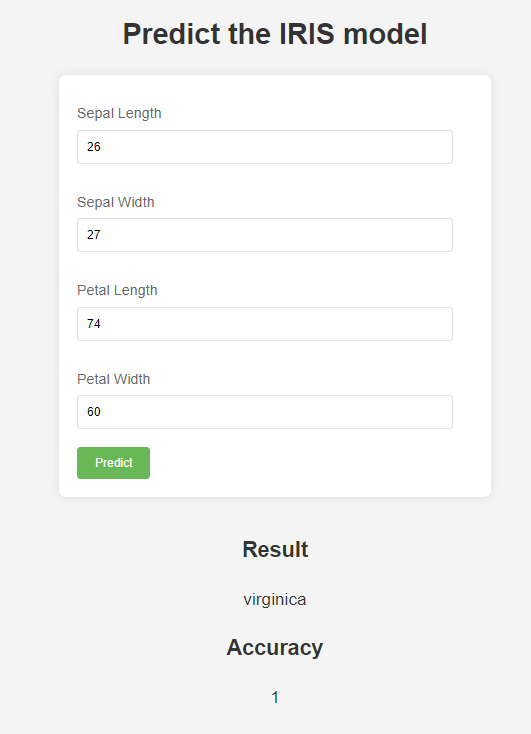
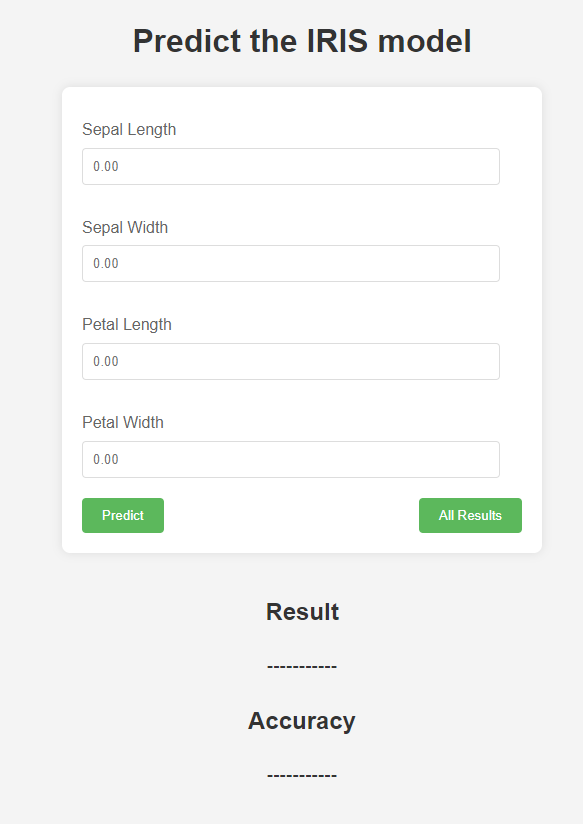
Update save data to mysql and show table in all_result page

diff --git a/src/templates/all_result.html b/src/templates/all_result.html
@@ -1,0 +1,165 @@
+<!DOCTYPE html>
+<html lang="en">
+
+<head>
+    <meta charset="UTF-8">
+    <meta name="viewport" content="width=device-width, initial-scale=1.0">
+    <title>All Results</title>
+    <style>
+         * {
+            margin: 0;
+            padding: 0;
+            box-sizing: border-box;
+        }
+
+        body {
+            font-family: Arial, sans-serif;
+            line-height: 1.6;
+            padding: 20px;
+            background-color: #f4f4f4;
+        }
+
+        .container {
+            display: flex;
+            justify-content: center;
+            align-items: center;
+            flex-direction: column;
+            margin-top: 20px;
+        }
+
+        h1, h2 {
+            color: #333;
+            margin-bottom: 20px;
+        }
+
+        form {
+            background-color: #fff;
+            padding: 20px;
+            border-radius: 8px;
+            box-shadow: 0 0 10px rgba(0, 0, 0, 0.1);
+            margin-bottom: 20px;
+            width: 30rem;
+        }
+
+        label {
+            margin: 10px 0 5px;
+            display: block;
+            color: #666;
+        }
+
+        input[type="number"] {
+            width: calc(100% - 22px);
+            padding: 10px;
+            margin-bottom: 20px;
+            border-radius: 4px;
+            border: 1px solid #ddd;
+        }
+
+        button {
+            background-color: #5cb85c;
+            color: #fff;
+            border: none;
+            padding: 10px 20px;
+            cursor: pointer;
+            border-radius: 4px;
+            transition: background-color 0.3s ease;
+        }
+
+        button:hover {
+            background-color: #4cae4c;
+        }
+
+        p {
+            color: #333;
+            font-size: 1.2rem;
+        }
+
+        table {
+            width: 100%;
+            border-collapse: collapse;
+            border-color: #ddd !important;
+        }
+
+        th, td {
+            padding: 12px 15px;
+            text-align: left;
+            border-bottom: 2px solid #ddd;
+        }
+
+        th {
+            background-color: #4CAF50;
+            color: white;
+            font-size: 16px;
+        }
+
+        tr:nth-child(even) {
+            background-color: #f2f2f2;
+        }
+
+        tr:hover {
+            background-color: #ddd;
+            cursor: pointer;
+        }
+
+        .table {
+            overflow-x: auto;
+            border-radius: 8px;
+            box-shadow: 0 4px 8px rgba(0, 0, 0, 0.1);
+        }
+     
+        .btn-back {
+            margin-top: 20px;
+            display: flex;
+            justify-content: flex-end;
+        }
+    </style>
+</head>
+
+<body>
+    <div class="container">
+        <h1>ALL Results</h1>
+        <div class="table">
+
+            <table border="1">
+                <thead>
+                    <tr>
+                        <th>Id</th>
+                        <th>sepal_length</th>
+                        <th>sepal_width</th>
+                        <th>petal_length</th>
+                        <th>petal_width</th>
+                        <th>prediction</th>
+                        <th>accuracy</th>
+                    </tr>
+                </thead>
+                <tbody>
+                    {% for result in results %}
+                    <tr>
+                        <td>{{ result.id }}</td>
+                        <td>{{ result.sepal_length }}</td>
+                        <td>{{ result.sepal_width }}</td>
+                        <td>{{ result.petal_length }}</td>
+                        <td>{{ result.petal_width }}</td>
+                        <td>{{ result.prediction }}</td>
+                        <td>{{ result.accuracy }}</td>
+                    </tr>
+                    {% endfor %}
+                </tbody>
+            </table>
+        </div>
+
+        <div class="btn-back">
+            <a href="/" style="text-decoration: none;">
+                <button>Home</button>
+            </a>
+        </div>
+    </div>
+
+    <script type="application/javascript">
+        document.addEventListener('DOMContentLoaded', () => {
+            // Code more..
+        });
+    </script>
+</body>
+
+</html>

diff --git a/src/templates/index.html b/src/templates/index.html
@@ -75,6 +75,11 @@
             color: #333;
             font-size: 1.2rem;
         }
+
+        .btn {
+            display: flex;
+            justify-content: space-between;
+        }
     </style>
 </head>
 
@@ -94,7 +99,12 @@
             <label for="petal_width">Petal Width</label>
             <input type="number" step='0.01' placeholder='0.00' name="petal_width" id="petal_width"
                 required>
-            <button type="submit">Predict</button>
+            <div class="form-group btn">
+                <button type="submit">Predict</button>
+                <a href="/all_result">
+                    <button type="button">All Results</button>
+                </a>
+            </div>
         </form>
         <div style="margin: top 20px;">
             <div class="container">

diff --git a/src/app.py b/src/app.py
@@ -4,6 +4,21 @@ from sklearn.model_selection import train_test_split
 from sklearn.tree import DecisionTreeClassifier
 from joblib import dump, load
 from sklearn.datasets import load_iris
+import mysql.connector
+
+# Connect to MySQL
+mydb = mysql.connector.connect(
+    host="localhost",
+    user="root",
+    password="root",
+    database="iris"
+)
+
+# Create table history if not exists
+mycursor = mydb.cursor()
+mycursor.execute("CREATE TABLE IF NOT EXISTS history (id INT AUTO_INCREMENT PRIMARY KEY, sepal_length FLOAT, sepal_width FLOAT, petal_length FLOAT, petal_width FLOAT, prediction VARCHAR(255), accuracy FLOAT)")
+
+# Load iris dataset
 iris = load_iris()
 import os
 app = Flask(__name__)
@@ -12,6 +27,8 @@ file_path = os.path.join(os.getcwd(),'model/iris_classifier.joblib')
 # Debug for run in src folder
 if(not os.path.exists(file_path)):
     file_path = file_path.replace('src/','').replace('src\\','')
+file_path = file_path.replace('\\','/');
+
 
 @app.route('/', methods=['GET'])
 def index():
@@ -21,12 +38,14 @@ def index():
 def predict():
     try:
         data = request.form
+        print('file path: ', file_path)
+        print('load model from: ', load(""+file_path))
         model = load(file_path)
         features = [data['sepal_length'], data['sepal_width'], data['petal_length'], data['petal_width']]
         prediction = model.predict([features])
         # Convert numpy array to list
         prediction = prediction.tolist()
-        return jsonify({
+        result = jsonify({
             'input': {
                 'sepal_length': data['sepal_length'],
                 'sepal_width': data['sepal_width'],
@@ -36,10 +55,56 @@ def predict():
             'prediction': iris.target_names[prediction[0]],
             'accuracy': model.score(iris.data, iris.target)
         })
+
+        # Save to database
+        save_history({
+            'sepal_length': data['sepal_length'],
+            'sepal_width': data['sepal_width'],
+            'petal_length': data['petal_length'],
+            'petal_width': data['petal_width'],
+            'prediction': iris.target_names[prediction[0]],
+            'accuracy': model.score(iris.data, iris.target)
+        })
+
+        return result
         
     except Exception as e:
         return jsonify({'error': str(e)})
     return jsonify({'error': 'An error occurred'})
+
+
+@app.route('/all_result', methods=['GET'])
+def all_result():
+    try:
+        mycursor.execute("SELECT * FROM history ORDER BY id DESC LIMIT 100")
+        result = mycursor.fetchall()
+        results = []
+        for row in result:
+            results.append({
+                'id': row[0],
+                'sepal_length': row[1],
+                'sepal_width': row[2],
+                'petal_length': row[3],
+                'petal_width': row[4],
+                'prediction': row[5],
+                'accuracy': row[6]
+            })
+
+        return render_template('all_result.html', results=results)
+    except Exception as e:
+        return jsonify({'error': str(e)})
+    return jsonify({'error': 'An error occurred'})
+
+def save_history(data):
+    try:
+        sql = "INSERT INTO history (sepal_length, sepal_width, petal_length, petal_width, prediction, accuracy) VALUES (%s, %s, %s, %s, %s, %s)"
+        val = (data['sepal_length'], data['sepal_width'], data['petal_length'], data['petal_width'], data['prediction'], data['accuracy'])
+        mycursor.execute(sql, val)
+        mydb.commit()
+        return True
+    except Exception as e:
+        print('Error save_history: ', str(e))
+        return False
 
 if __name__ == '__main__':
     app.run(debug=True, port=5000)

diff --git a/README.md b/README.md
@@ -19,9 +19,9 @@ This is a example of using the Iris dataset with scikit-learn and using it with 
 ```bash
 git clone https://github.com/Jakkapan-a/WebServiceIRIS_ML_using_flask.git
 ```
-2. Install the scikit-learn and Flask
-```bash
-pip install scikit-learn Flask
+2. Install the scikit-learn , Flask and mysql-connector-python
+```bash 
+pip install scikit-learn Flask mysql-connector-python
 ```
 3. Run the train.py
 ```bash
@@ -35,3 +35,8 @@ python src/app.py
 
 <!-- img -->
 <img src="./images/01.png" alt="01" width="200"/>
+
+## Update Save result to MySQL and show in the all_result page
+
+<!-- img -->
+<img src="./images/02.png" alt="02" width="200"/>
